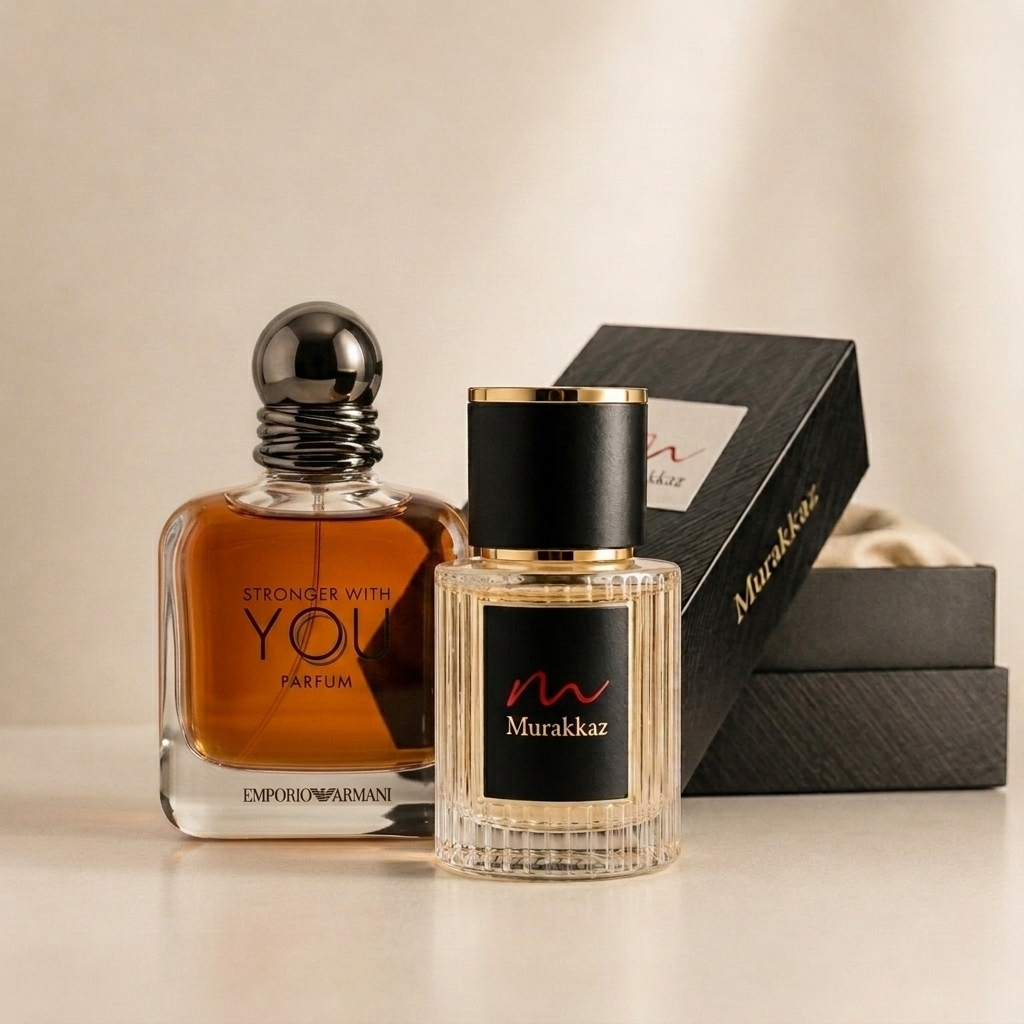
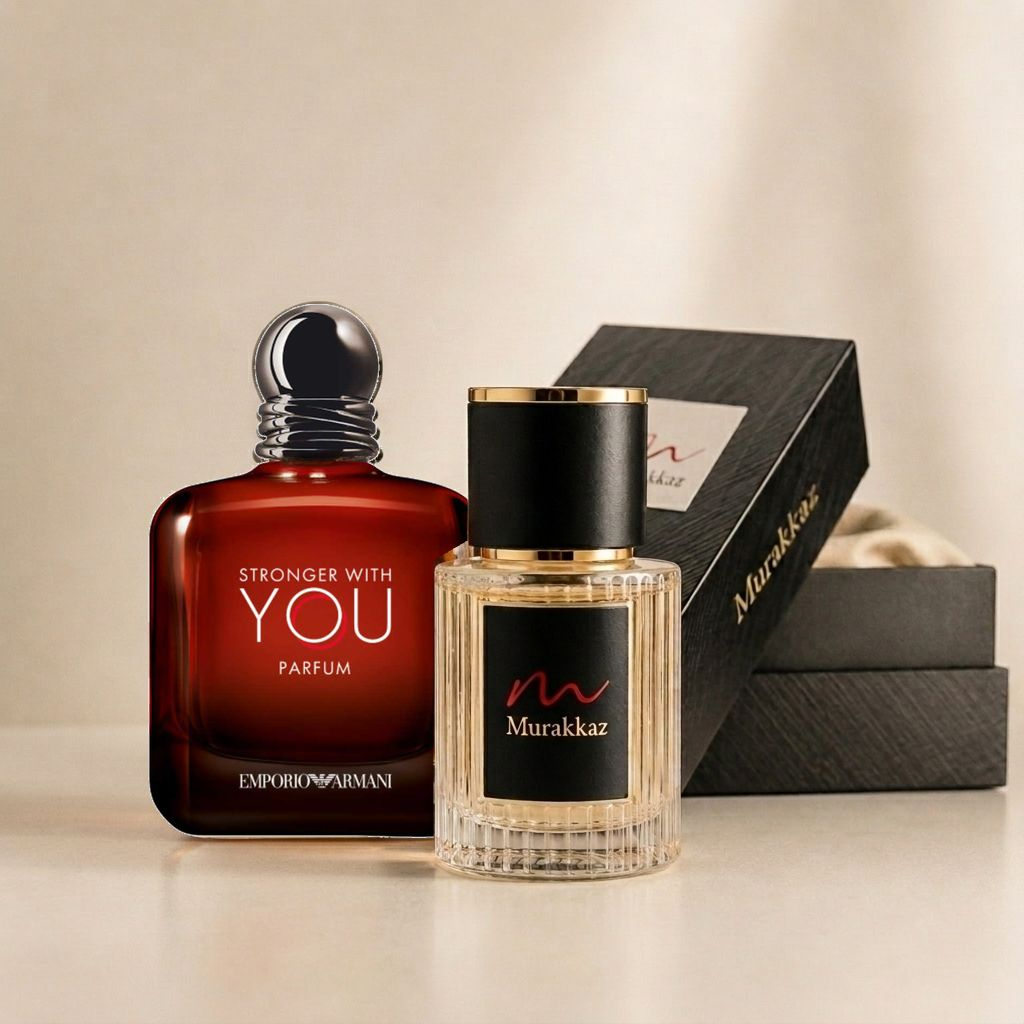
Update Stronger With You Parfum and Montblanc Explorer Platinum to authentic bottles

Changed region(s): [[0.125, 0.2812, 0.4688, 0.8438]]

diff --git a/App/src/app/data/products.ts b/App/src/app/data/products.ts
@@ -1402,7 +1402,7 @@ export const luxuryProducts: Product[] = [
     "description": "An opulent, sensual composition centered around sweet glazed chestnut and smooth bourbon vanilla, grounded by warm aromatic spices and soft leather.",
     "rating": 5,
     "reviewCount": 26,
-    "image": "/images/products/emporio_armani_stronger_with_you_parfum_v3.jpg",
+    "image": "/images/products/emporio_armani_stronger_with_you_parfum_v4.jpg",
     "family": "ORIENTAL",
     "gender": "MEN",
     "occasion": "Daily & Executive",
@@ -5974,7 +5974,7 @@ export const luxuryProducts: Product[] = [
     "description": "A crisp, metallic-woody fragrance inspired by mountain exploration—fresh violet leaves and herbal sage over clean cedarwood.",
     "rating": 4.8,
     "reviewCount": 29,
-    "image": "/images/products/explorer_platinum_v3.jpg",
+    "image": "/images/products/explorer_platinum_v4.jpg",
     "family": "FRESH",
     "gender": "MEN",
     "occasion": "Daily & Executive",
@@ -6404,6 +6404,12 @@ export async function fetchLiveProducts(forceRefresh = false): Promise<Product[]
           }
           if (itemSlug.includes("terre-d-herm") || (p.name && p.name.toLowerCase().includes("terre d'herm"))) {
             itemImage = "/images/products/terre_d_hermes_parfum_v3.jpg";
+          }
+          if (itemSlug.includes("stronger-with-you") || (p.name && p.name.toLowerCase().includes("stronger with you"))) {
+            itemImage = "/images/products/emporio_armani_stronger_with_you_parfum_v4.jpg";
+          }
+          if (itemSlug.includes("explorer-platinum") || (p.name && p.name.toLowerCase().includes("explorer platinum"))) {
+            itemImage = "/images/products/explorer_platinum_v4.jpg";
           }
 
           const EXCLUSIVE_SET = new Set([
